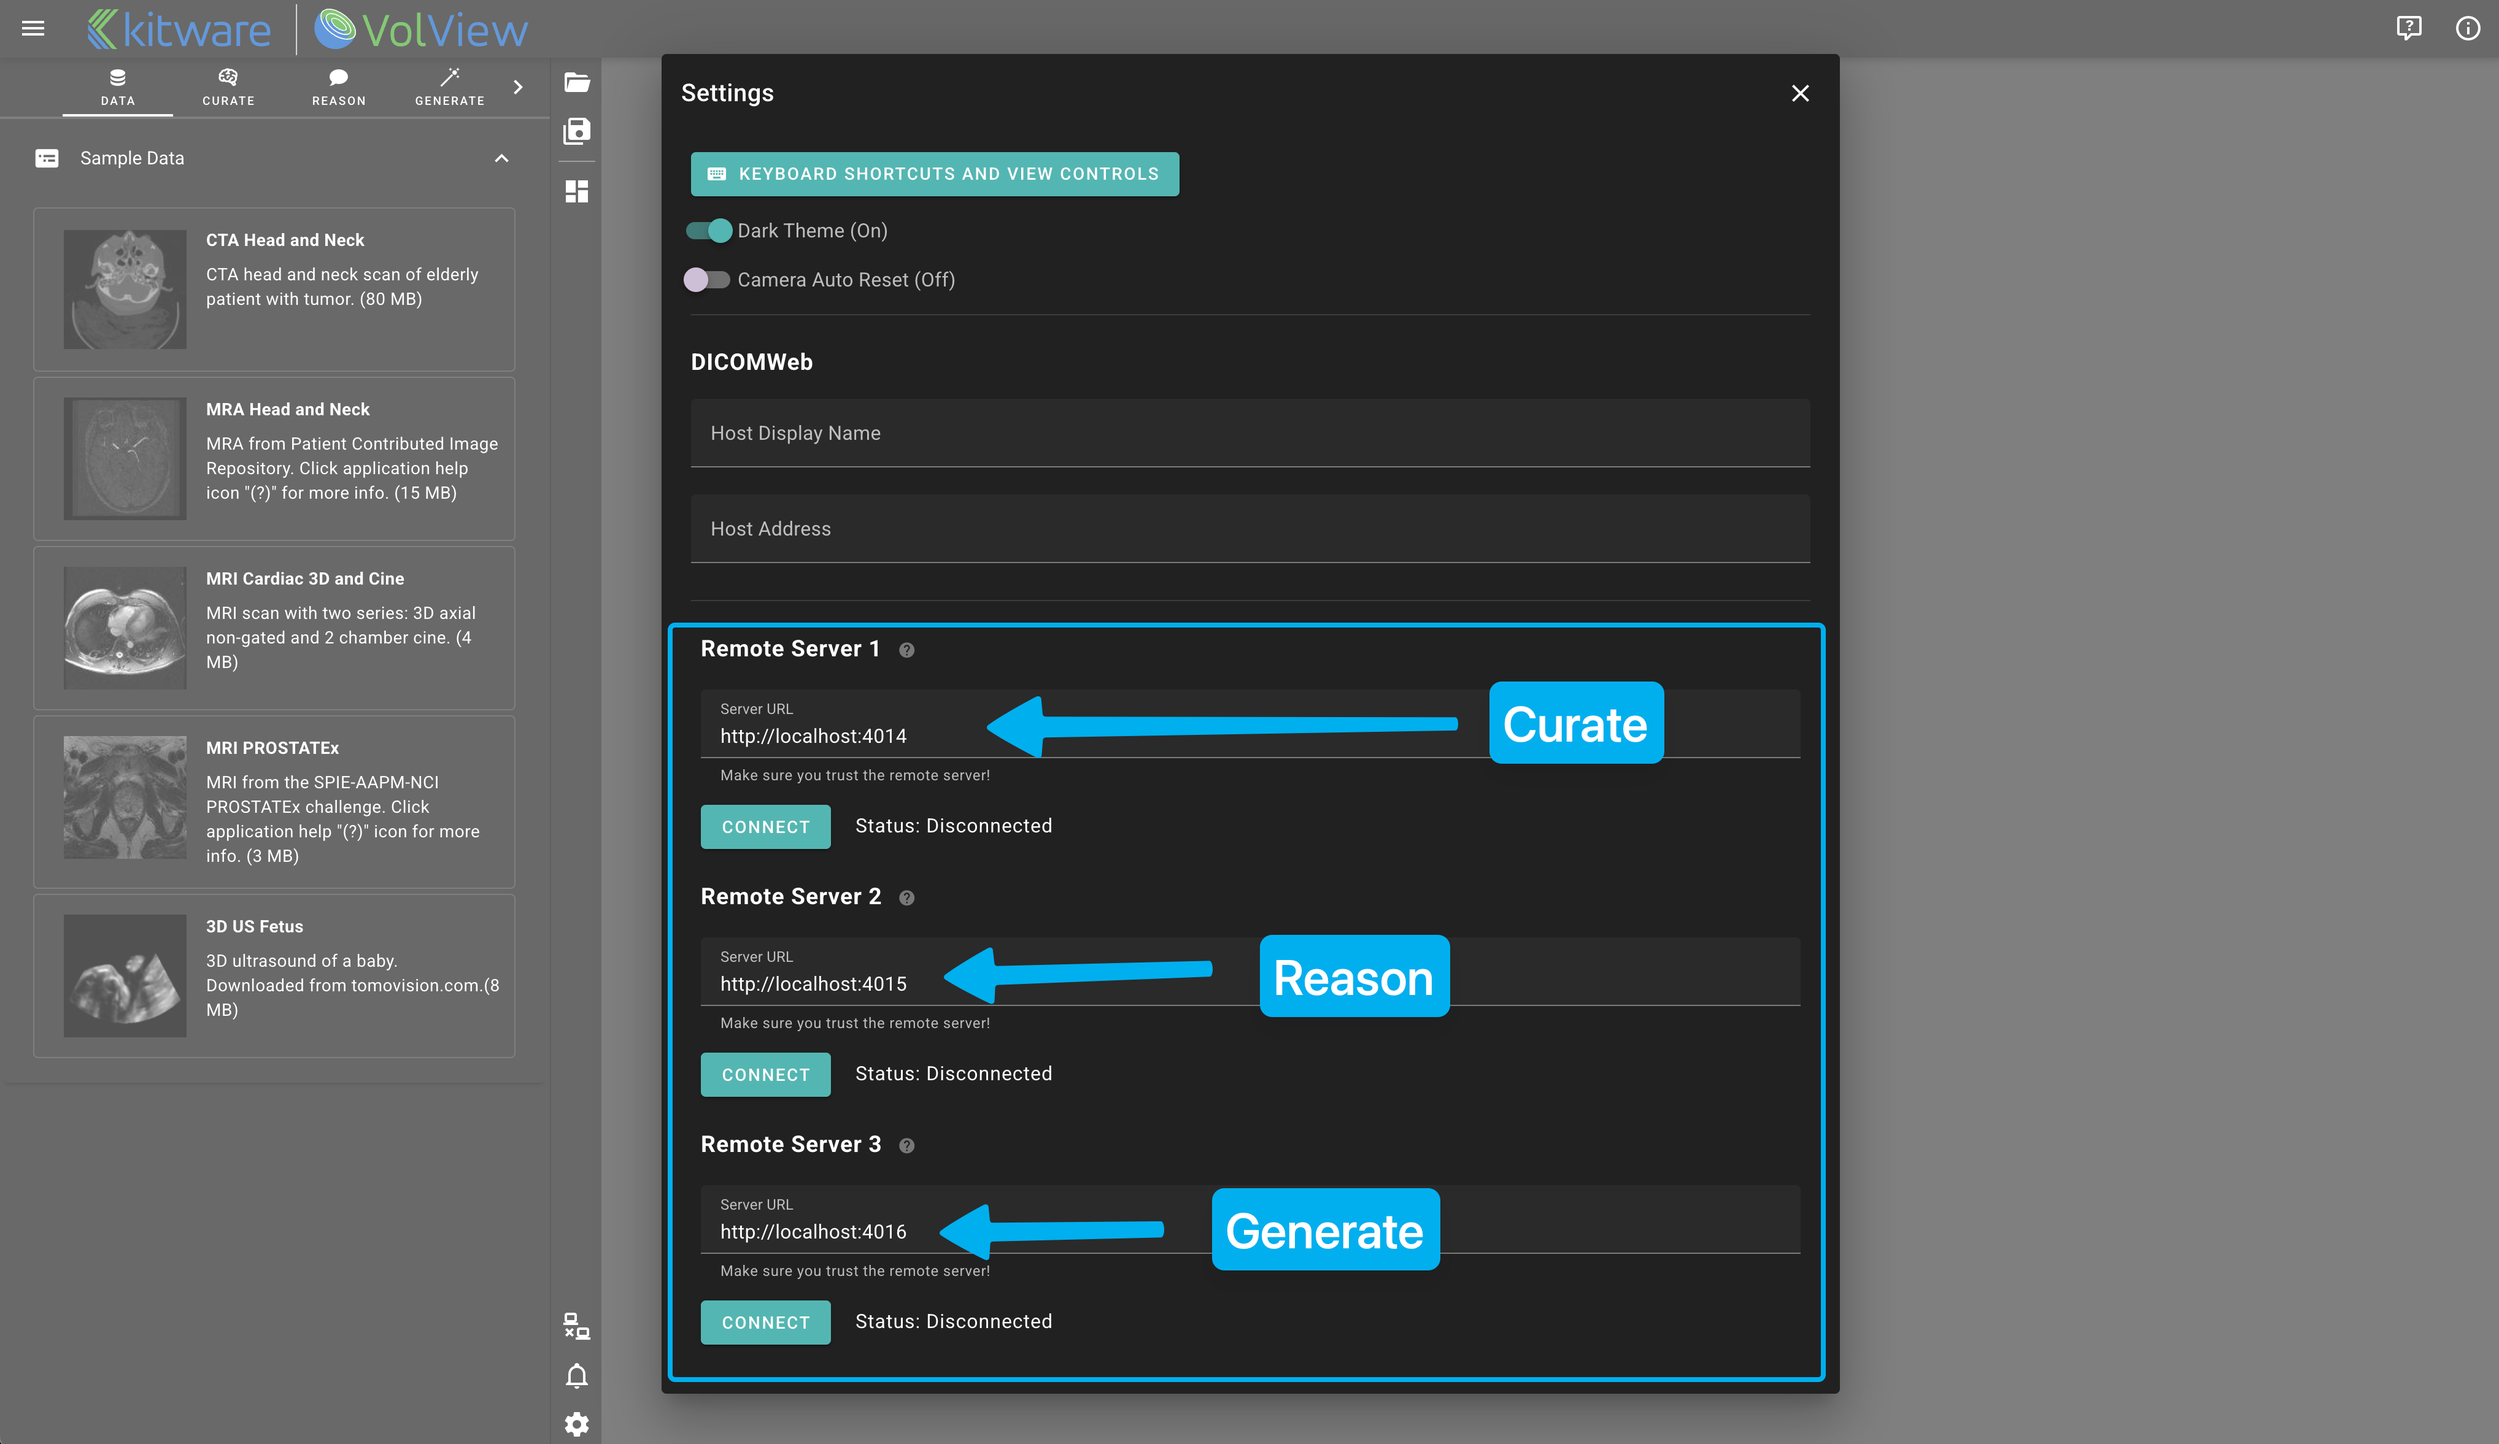
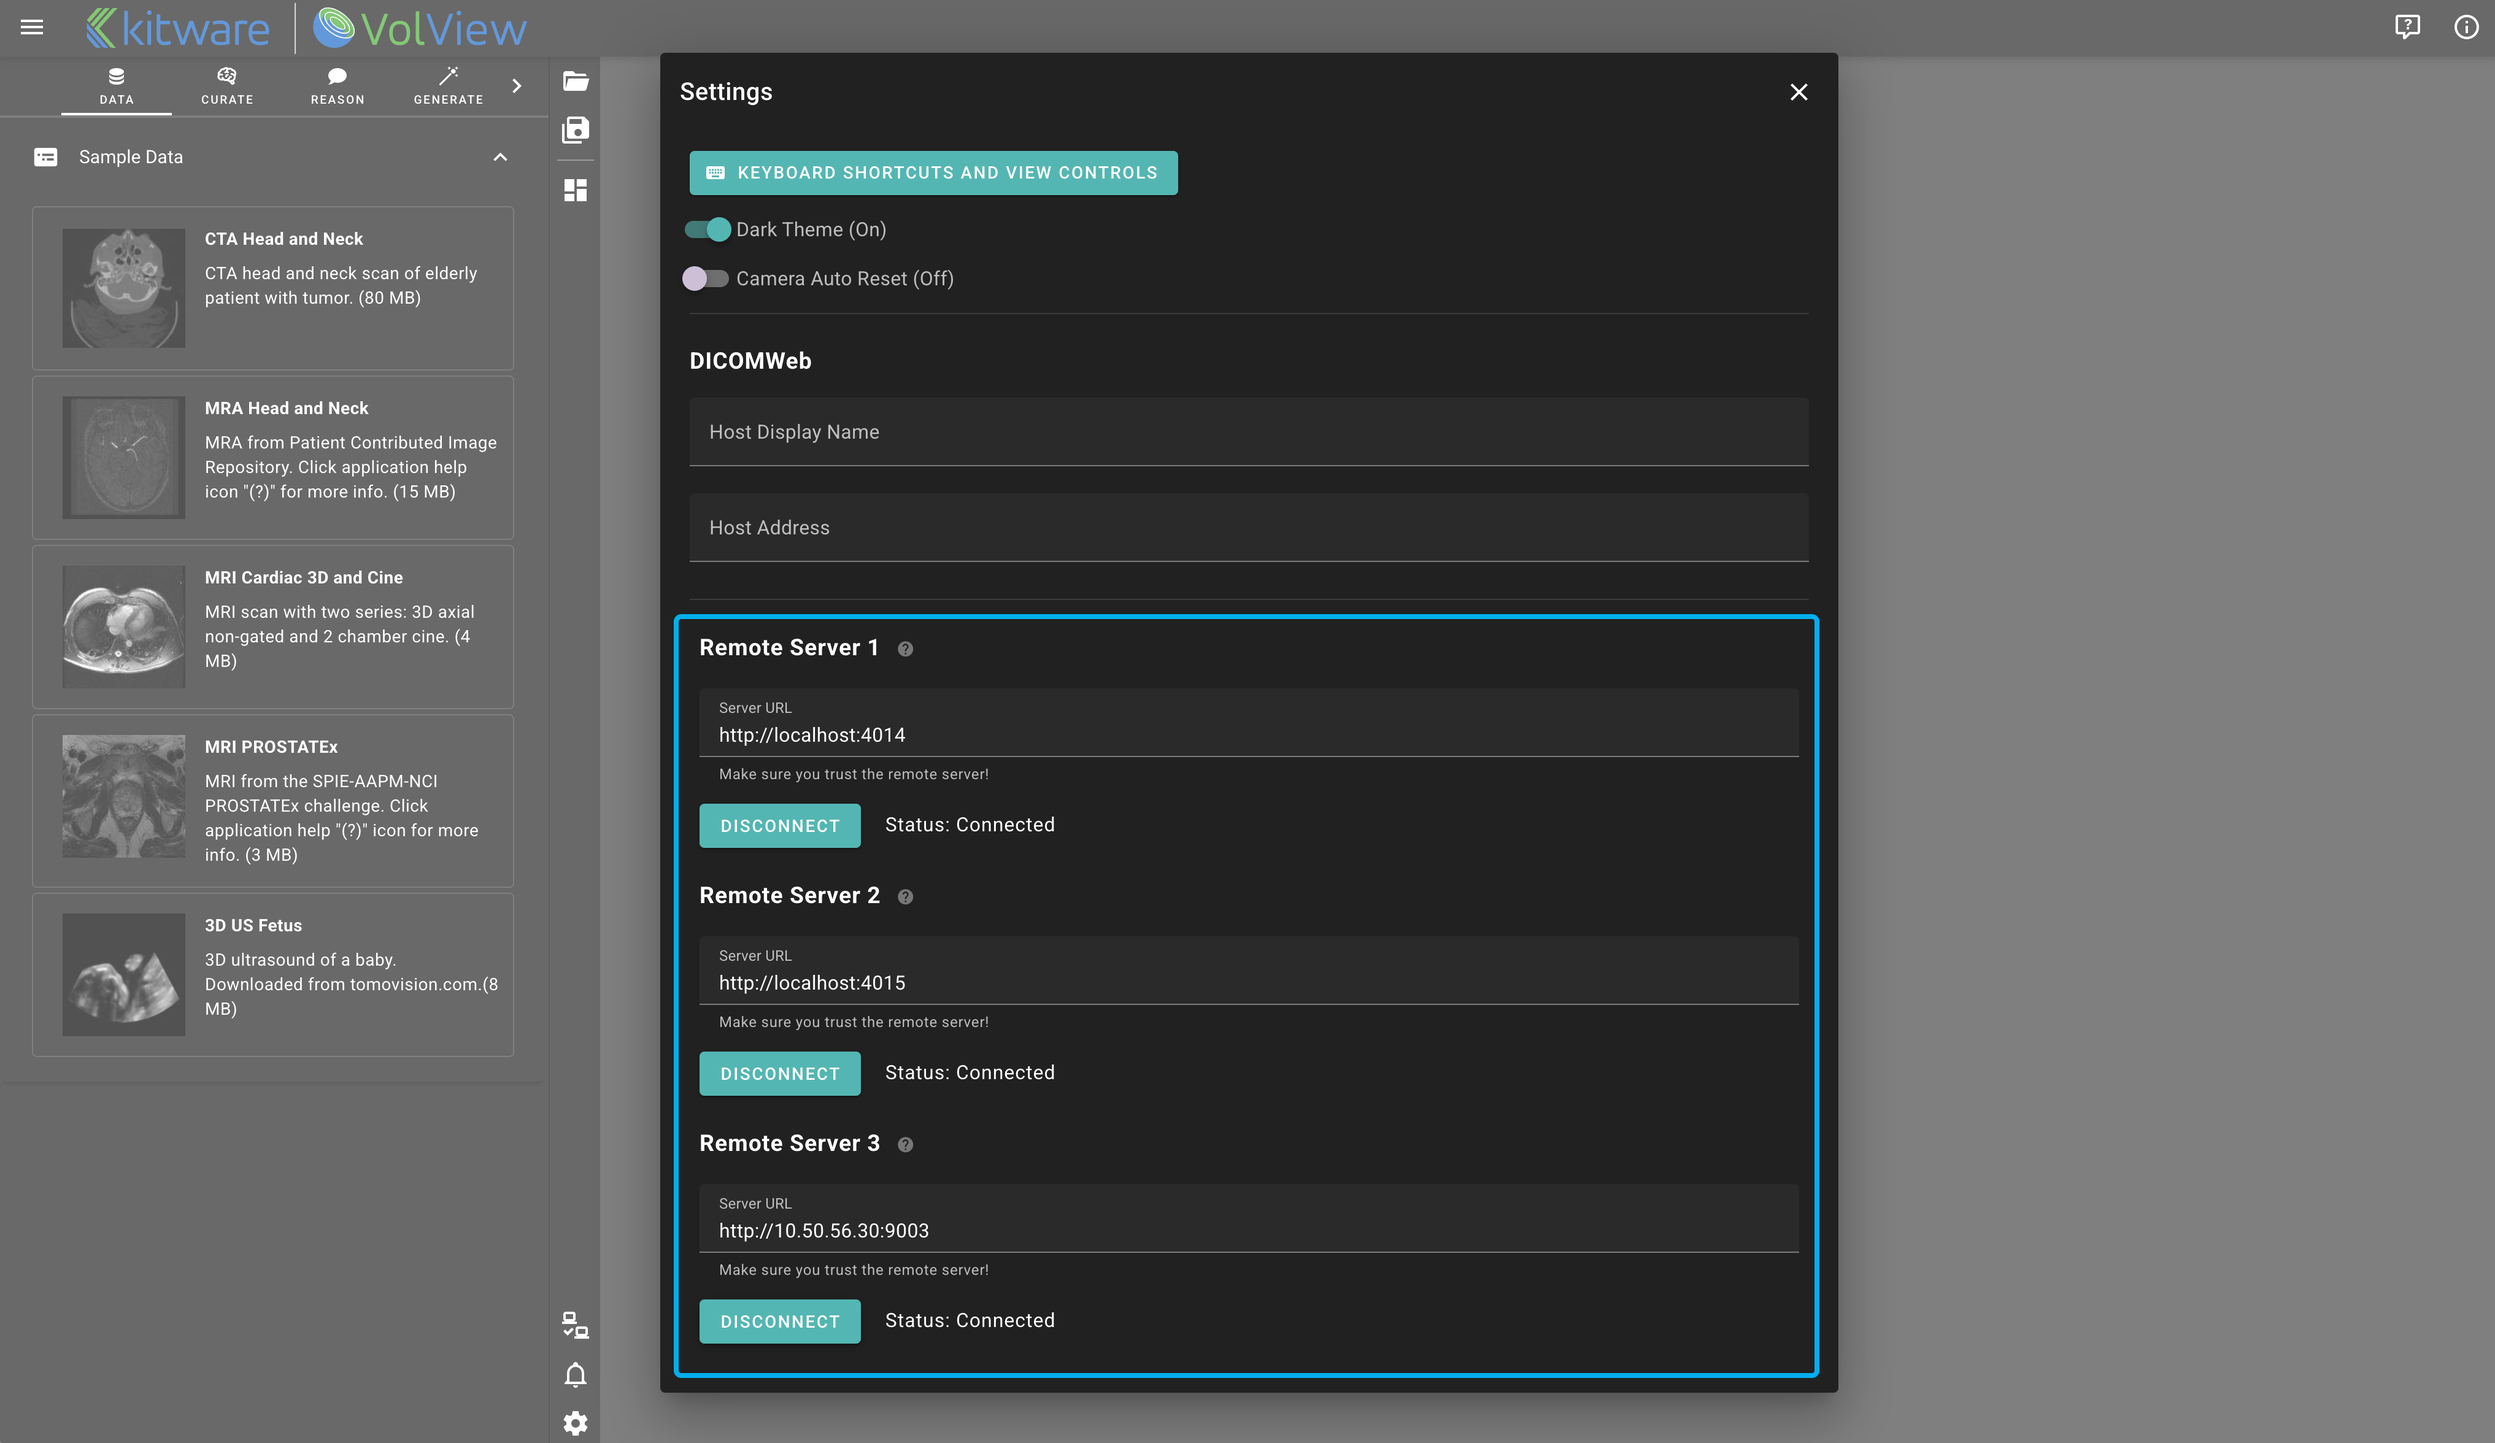
Update README to include hpc example

diff --git a/README.md b/README.md
@@ -151,7 +151,9 @@ You configure VolView to point to each server via the configuration icon:
 icon](./docs/assets/volview-server-config-1.png)
 
 Then, you point each of the servers to the machines running the Python servers
-by modifying the links below:
+by modifying the links. In the example below, Curate and Reason are being run on
+my machine, but Generate is being run on `10.50.56.30` on port `9003`, which is
+a cluster accessible on my local intranet:
 
 ![A screenshot of the configuration
 icon](./docs/assets/volview-server-config-2.png)
